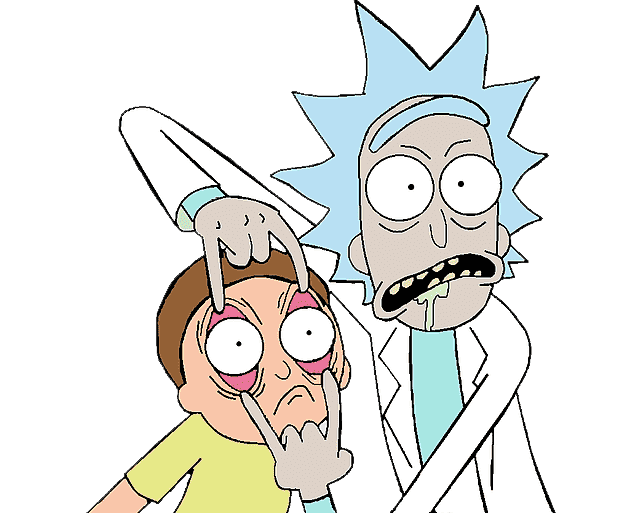
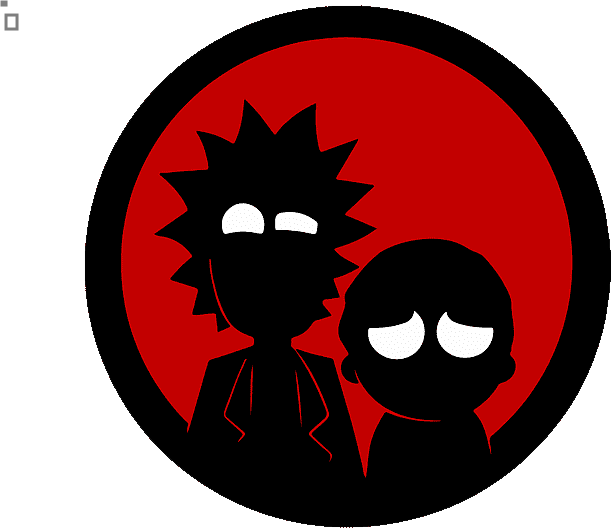
fix some padding on hero and change rickandmorty image

diff --git a/src/app/components/ProjectItem/ProjectItem.scss b/src/app/components/ProjectItem/ProjectItem.scss
@@ -1,75 +1,76 @@
 @import "../../assets/scss/main.scss";
 
-.pi{
-    display: flex;
-    flex-direction: column;
-    justify-content: center;
-    align-items: center;
-    margin-bottom: 10rem;
-    &-header{
-        width: 30rem;
-        text-align: center;
-        & h4{
-            font-size: 2.4rem;
-            font-weight: 900;
-            margin: 1rem 0;
-        }
-        & p{
-            color: $text-gray;
-            font-size: 1.5rem;
-            line-height: 3rem;
-            max-width: 45rem;
-            margin: 0;
-        }
-
-        & button{
-            font-size: 1.5rem;
-            font-weight: 900;
-            margin-top: 3rem;
-            background-color: $blue;
-        }
-
-        & a{
-            text-decoration: none;
-            color: white !important;
-        }
+.pi {
+  display: flex;
+  flex-direction: column;
+  justify-content: center;
+  align-items: center;
+  margin-bottom: 10rem;
+  &-header {
+    width: 30rem;
+    text-align: center;
+    & h4 {
+      font-size: 2.4rem;
+      font-weight: 900;
+      margin: 1rem 0;
     }
-    &-body{
-        width: 30rem;
-        margin: 5rem 0;
-        & img{
-            width: 100%;
-        }
+    & p {
+      color: $text-gray;
+      font-size: 1.5rem;
+      line-height: 3rem;
+      max-width: 45rem;
+      margin: 0;
+      padding: 0 1rem;
     }
+
+    & button {
+      font-size: 1.5rem;
+      font-weight: 900;
+      margin-top: 3rem;
+      background-color: $blue;
+    }
+
+    & a {
+      text-decoration: none;
+      color: white !important;
+    }
+  }
+  &-body {
+    width: 30rem;
+    margin: 5rem 0;
+    & img {
+      width: 100%;
+    }
+  }
 }
 
-@include bp-tab{
-    .pi{
-        &-header{
-            width: 38rem;
-            & h4{
-                font-size: 2.7rem;
-            }
-            & p{
-                font-size: 1.7rem;
-            }
-        }
-        &-body{
-            width: 40rem;
-            & img{
-                width: 100%;
-            }
-        }
+@include bp-tab {
+  .pi {
+    &-header {
+      width: 38rem;
+      & h4 {
+        font-size: 2.7rem;
+      }
+      & p {
+        font-size: 1.7rem;
+      }
     }
+    &-body {
+      width: 40rem;
+      & img {
+        width: 100%;
+      }
+    }
+  }
 }
 
-@include bp-lap{
-    .pi{
-        flex-direction: row;
-        justify-content: space-evenly;
-        &-header{
-            text-align: left;
-            margin-left: 5rem;
-        }
+@include bp-lap {
+  .pi {
+    flex-direction: row;
+    justify-content: space-evenly;
+    &-header {
+      text-align: left;
+      margin-left: 5rem;
     }
+  }
 }

diff --git a/src/app/layouts/Resume/Resume.scss b/src/app/layouts/Resume/Resume.scss
@@ -13,6 +13,8 @@
     height: 100%;
   }
   &-text {
+    padding: 0 1rem;
+
     & h2 {
       font-size: 2rem;
       font-weight: 900;
@@ -35,9 +37,10 @@
     }
   }
   &-skills {
-    padding: 3rem 0;
+    padding: 3rem 1rem;
   }
   &-xp {
+    padding: 0 1rem;
     &-actions {
       display: grid;
       place-items: center;
@@ -79,7 +82,7 @@
   }
 }
 
-@include bp-lap{
+@include bp-lap {
   .resume {
     &-container {
       display: flex;
@@ -90,7 +93,7 @@
     }
     &-text {
       width: 120rem;
-      &-container{
+      &-container {
         display: flex;
         flex-direction: row;
       }
@@ -111,27 +114,26 @@
         }
       }
     }
-    &-skills{
+    &-skills {
       width: 120rem;
-      &-container{
+      &-container {
         display: flex;
         flex-direction: row;
         justify-content: flex-start;
         align-items: start;
       }
     }
-    &-xp{
+    &-xp {
       padding-top: 5rem;
       width: 120rem;
-      &-container{
+      &-container {
         display: flex;
         flex-direction: row;
         justify-content: space-between;
       }
-      &-actions{
+      &-actions {
         padding-bottom: 5rem;
       }
     }
-
   }
 }

diff --git a/src/app/layouts/Hero/Hero.scss b/src/app/layouts/Hero/Hero.scss
@@ -8,7 +8,7 @@
     width: 100%;
     min-height: 100vh;
     height: 100%;
-    padding: 5rem 0;
+    padding: 5rem 2rem;
     &-header{
         width: 25rem;
         border: .1rem solid transparent;
@@ -38,7 +38,7 @@
             flex-direction: row;
             justify-content: center;
             align-items: center;
-            margin: 1.2rem 0;
+            margin: 1.5rem 0;
 
             & a{
                 padding: 0 2rem;
@@ -46,14 +46,17 @@
             }
             & svg{
                 font-size: 3rem;
+                color: $blue;
+
             }
         }
     }
     &-footer{
-        margin-top: 10rem;
+        margin-top: 7rem;
 
         & svg{
             font-size: 5rem;
+            color: $blue;
         }
     }
 }

diff --git a/src/app/layouts/Portfolio/Portfolio.scss b/src/app/layouts/Portfolio/Portfolio.scss
@@ -1,27 +1,27 @@
 @import "../../assets/scss/main.scss";
 
-.pf{
-    display: flex;
-    justify-content: center;
-    align-items: center;
-    &-container{
-        width: 29rem;
-    }
+.pf {
+  display: flex;
+  justify-content: center;
+  align-items: center;
+  &-container {
+    width: 29rem;
+  }
 }
 
-@include bp-tab{
-    .pf{
-        &-container{
-            width: 45rem;
-        }
+@include bp-tab {
+  .pf {
+    &-container {
+      width: 45rem;
     }
+  }
 }
 
-@include bp-tab{
-    .pf{
-        text-align: center;
-        &-container{
-            width: 120rem;
-        }
+@include bp-tab {
+  .pf {
+    text-align: center;
+    &-container {
+      width: 120rem;
     }
+  }
 }

diff --git a/src/app/pages/Home.tsx b/src/app/pages/Home.tsx
@@ -4,7 +4,7 @@ import { Hero } from "app/layouts/Hero/Hero";
 import { Resume } from "app/layouts/Resume/Resume";
 import { Clients } from "app/layouts/Clients/Clients";
 import { Portfolio } from "app/layouts/Portfolio/Portfolio";
-import { Interests } from "app/layouts/Interests/Interests";
+// import { Interests } from "app/layouts/Interests/Interests";
 
 type Props = {};
 
@@ -14,7 +14,7 @@ const Home = (props: Props) => {
       <Hero />
       <Resume />
       <Portfolio />
-      <Interests />
+      {/* <Interests /> */}
       <Clients />
     </>
   );

diff --git a/src/app/layouts/Hero/Hero.tsx b/src/app/layouts/Hero/Hero.tsx
@@ -4,7 +4,7 @@ import { GitHub, Instagram, KeyboardArrowDownOutlined, LinkedIn, WhatsApp } from
 
 import { RootState } from "app/interfaces";
 import { switchBg, switchColor } from "app/utils/constants";
-import profilePicture from "app/assets/images/profile.jpeg";
+import profilePicture from "app/assets/images/profile.png";
 import "./Hero.scss";
 
 const Hero = () => {

diff --git a/src/app/layouts/Portfolio/Portfolio.tsx b/src/app/layouts/Portfolio/Portfolio.tsx
@@ -8,7 +8,6 @@ import p1 from "app/assets/images/p1.png";
 import p2 from "app/assets/images/fbh.png";
 import p3 from "app/assets/images/rickandmorty.png";
 import "./Portfolio.scss";
-import { BasicModal } from "app/components/BasicModal/BasicModal";
 
 const Portfolio = () => {
   const mode = useSelector((state: RootState) => state.colorMode.mode);
